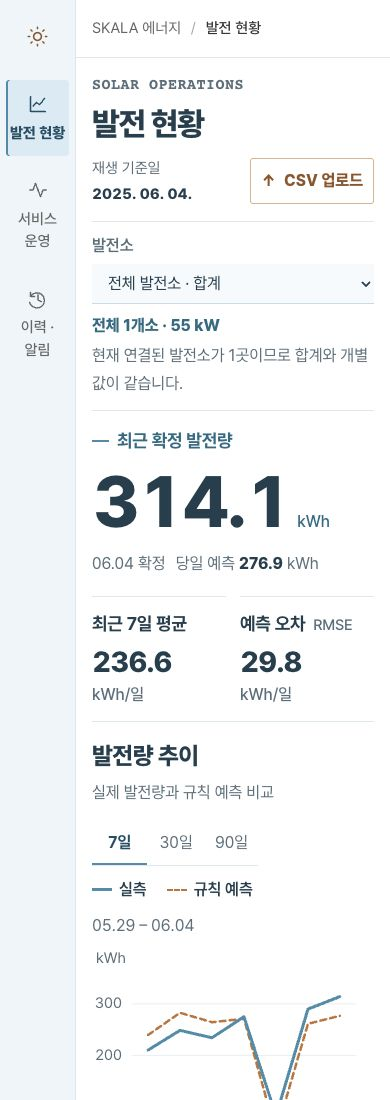
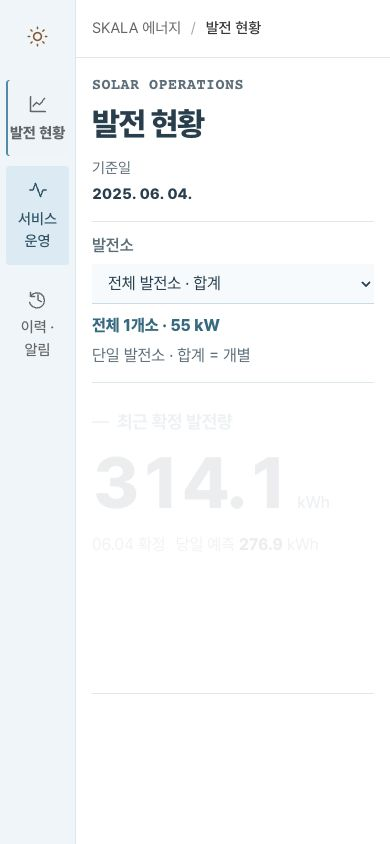
fix(frontend): recover from malformed API responses during dashboard refresh

diff --git a/docs/design/solar-ops-v01/solar-ops-preview.html b/docs/design/solar-ops-v01/solar-ops-preview.html
@@ -1729,7 +1729,7 @@ readPeriod();
       const response = await query(resource === 'timeseries' ? `timeseries?window_sec=${element('server-window').value}` : resource);
       let entries;
       if (resource === 'timeseries') {
-        if (!Array.isArray(response) || !response.every(row => Number.isFinite(row.request_count) && row.request_count >= 0 && Number.isFinite(row.avg_latency_ms) && Number.isFinite(row.error_rate))) throw new Error('응답 형식 오류');
+        if (!Array.isArray(response) || !response.every(row => row && Number.isInteger(row.request_count) && row.request_count >= 0 && Number.isFinite(row.avg_latency_ms) && row.avg_latency_ms >= 0 && Number.isFinite(row.error_rate) && row.error_rate >= 0 && row.error_rate <= 1)) throw new Error('응답 형식 오류');
         const count = response.reduce((sum, row) => sum + row.request_count, 0);
         const weighted = response.reduce((sum, row) => sum + row.avg_latency_ms * row.request_count, 0);
         const errors = response.reduce((sum, row) => sum + row.error_rate * row.request_count, 0);
@@ -1766,7 +1766,7 @@ readPeriod();
     try {
       let payload;
       try { payload = JSON.parse(element('predict-input').value); } catch { throw new Error('JSON 형식 확인 필요'); }
-      if (!Array.isArray(payload.sequence) || payload.sequence.length !== 20 || !payload.sequence.every(row => Number.isFinite(row.close) && row.close > 0 && Number.isInteger(row.volume) && row.volume >= 0)) throw new Error('입력 20개 · close > 0 · volume은 0 이상 정수');
+      if (!Array.isArray(payload?.sequence) || payload.sequence.length !== 20 || !payload.sequence.every(row => row && Number.isFinite(row.close) && row.close > 0 && Number.isInteger(row.volume) && row.volume >= 0)) throw new Error('입력 20개 · close > 0 · volume은 0 이상 정수');
       const response = await query('predict', payload);
       if (!Number.isFinite(response.predicted_close)) throw new Error('예측 응답 형식 오류');
       element('predict-status').textContent = `예측값 ${response.predicted_close} · 모델 ${display(response.model_version)}`;
@@ -1779,33 +1779,37 @@ readPeriod();
   async function refreshHistory() {
     if (historyPending) return;
     historyPending = true; element('refresh-history').disabled = true; element('history-status').textContent = '조회 중…';
-    const results = await Promise.allSettled([query('history'), query('alerts')]);
-    results.forEach((result, index) => {
-      const panel = document.querySelector(index ? '.events-panel' : '.model-panel');
-      const target = panel.querySelector(index ? '.event-list' : 'tbody');
-      target.replaceChildren();
-      const valid = result.status === 'fulfilled' && Array.isArray(result.value);
-      const rows = valid ? result.value : [];
-      panel.querySelector('.panel-heading p').textContent = valid ? '서버 조회' : '조회 불가';
-      panel.querySelector('.panel-heading > span').textContent = valid ? `${rows.length}건` : '미연결';
-      if (!rows.length) {
-        const empty = document.createElement(index ? 'li' : 'tr');
-        if (index) empty.textContent = valid ? '운영 알림 없음' : '알림 조회 불가';
-        else { const cell = document.createElement('td'); cell.colSpan = 5; cell.textContent = valid ? '등록된 모델 없음' : '모델 이력 조회 불가'; empty.append(cell); }
-        target.append(empty);
-      }
-      rows.forEach(row => {
-        const entry = document.createElement(index ? 'li' : 'tr');
-        if (index) { const content = document.createElement('div'), title = document.createElement('strong'), stamp = document.createElement('p'); title.textContent = `${display(row.level)} · ${display(row.message)}`; stamp.textContent = time(row.ts); content.append(title, stamp); entry.append(content); }
-        else [row.version, time(row.created_at), row.mode, row.rmse, row.stage].forEach(value => { const cell = document.createElement('td'); cell.textContent = display(value); entry.append(cell); });
-        target.append(entry);
+    try {
+      const results = await Promise.allSettled([query('history'), query('alerts')]);
+      let allValid = true;
+      results.forEach((result, index) => {
+        const panel = document.querySelector(index ? '.events-panel' : '.model-panel');
+        const target = panel.querySelector(index ? '.event-list' : 'tbody');
+        target.replaceChildren();
+        const valid = result.status === 'fulfilled' && Array.isArray(result.value) && result.value.every(row => row && typeof row === 'object' && !Array.isArray(row) && (index ? typeof row.message === 'string' : row.version !== undefined));
+        allValid = allValid && valid;
+        const rows = valid ? result.value : [];
+        panel.querySelector('.panel-heading p').textContent = valid ? '서버 조회' : '조회 불가';
+        panel.querySelector('.panel-heading > span').textContent = valid ? `${rows.length}건` : '미연결';
+        if (!rows.length) {
+          const empty = document.createElement(index ? 'li' : 'tr');
+          if (index) empty.textContent = valid ? '운영 알림 없음' : '알림 조회 불가';
+          else { const cell = document.createElement('td'); cell.colSpan = 5; cell.textContent = valid ? '등록된 모델 없음' : '모델 이력 조회 불가'; empty.append(cell); }
+          target.append(empty);
+        }
+        rows.forEach(row => {
+          const entry = document.createElement(index ? 'li' : 'tr');
+          if (index) { const content = document.createElement('div'), title = document.createElement('strong'), stamp = document.createElement('p'); title.textContent = `${display(row.level)} · ${display(row.message)}`; stamp.textContent = time(row.ts); content.append(title, stamp); entry.append(content); }
+          else [row.version, time(row.created_at), row.mode, row.rmse, row.stage].forEach(value => { const cell = document.createElement('td'); cell.textContent = display(value); entry.append(cell); });
+          target.append(entry);
+        });
       });
-    });
-    document.querySelector('.events-foot').textContent = `조회 시각 ${new Date().toLocaleTimeString('ko-KR')}`;
-    document.querySelector('.model-panel caption').textContent = '서버 모델 버전 이력';
-    document.querySelector('.model-panel .table-scroll').setAttribute('aria-label', '모델 버전 이력, 상하좌우 스크롤');
-    element('history-status').textContent = results.every(result => result.status === 'fulfilled') ? '조회 완료' : '일부 API 조회 불가';
-    historyPending = false; element('refresh-history').disabled = false;
+      document.querySelector('.events-foot').textContent = `조회 시각 ${new Date().toLocaleTimeString('ko-KR')}`;
+      document.querySelector('.model-panel caption').textContent = '서버 모델 버전 이력';
+      document.querySelector('.model-panel .table-scroll').setAttribute('aria-label', '모델 버전 이력, 상하좌우 스크롤');
+      element('history-status').textContent = allValid ? '조회 완료' : '일부 API 조회 불가';
+    } catch { element('history-status').textContent = '응답 처리 실패 · 다시 조회해 주세요'; }
+    finally { historyPending = false; element('refresh-history').disabled = false; }
   }
   element('refresh-history').addEventListener('click', refreshHistory);
   // Honor the existing refresh interval only while the corresponding live view is visible.

diff --git a/docs/design/solar-ops-v01/server-dashboard.js b/docs/design/solar-ops-v01/server-dashboard.js
@@ -26,7 +26,7 @@
       const response = await query(resource === 'timeseries' ? `timeseries?window_sec=${element('server-window').value}` : resource);
       let entries;
       if (resource === 'timeseries') {
-        if (!Array.isArray(response) || !response.every(row => Number.isFinite(row.request_count) && row.request_count >= 0 && Number.isFinite(row.avg_latency_ms) && Number.isFinite(row.error_rate))) throw new Error('응답 형식 오류');
+        if (!Array.isArray(response) || !response.every(row => row && Number.isInteger(row.request_count) && row.request_count >= 0 && Number.isFinite(row.avg_latency_ms) && row.avg_latency_ms >= 0 && Number.isFinite(row.error_rate) && row.error_rate >= 0 && row.error_rate <= 1)) throw new Error('응답 형식 오류');
         const count = response.reduce((sum, row) => sum + row.request_count, 0);
         const weighted = response.reduce((sum, row) => sum + row.avg_latency_ms * row.request_count, 0);
         const errors = response.reduce((sum, row) => sum + row.error_rate * row.request_count, 0);
@@ -63,7 +63,7 @@
     try {
       let payload;
       try { payload = JSON.parse(element('predict-input').value); } catch { throw new Error('JSON 형식 확인 필요'); }
-      if (!Array.isArray(payload.sequence) || payload.sequence.length !== 20 || !payload.sequence.every(row => Number.isFinite(row.close) && row.close > 0 && Number.isInteger(row.volume) && row.volume >= 0)) throw new Error('입력 20개 · close > 0 · volume은 0 이상 정수');
+      if (!Array.isArray(payload?.sequence) || payload.sequence.length !== 20 || !payload.sequence.every(row => row && Number.isFinite(row.close) && row.close > 0 && Number.isInteger(row.volume) && row.volume >= 0)) throw new Error('입력 20개 · close > 0 · volume은 0 이상 정수');
       const response = await query('predict', payload);
       if (!Number.isFinite(response.predicted_close)) throw new Error('예측 응답 형식 오류');
       element('predict-status').textContent = `예측값 ${response.predicted_close} · 모델 ${display(response.model_version)}`;
@@ -76,33 +76,37 @@
   async function refreshHistory() {
     if (historyPending) return;
     historyPending = true; element('refresh-history').disabled = true; element('history-status').textContent = '조회 중…';
-    const results = await Promise.allSettled([query('history'), query('alerts')]);
-    results.forEach((result, index) => {
-      const panel = document.querySelector(index ? '.events-panel' : '.model-panel');
-      const target = panel.querySelector(index ? '.event-list' : 'tbody');
-      target.replaceChildren();
-      const valid = result.status === 'fulfilled' && Array.isArray(result.value);
-      const rows = valid ? result.value : [];
-      panel.querySelector('.panel-heading p').textContent = valid ? '서버 조회' : '조회 불가';
-      panel.querySelector('.panel-heading > span').textContent = valid ? `${rows.length}건` : '미연결';
-      if (!rows.length) {
-        const empty = document.createElement(index ? 'li' : 'tr');
-        if (index) empty.textContent = valid ? '운영 알림 없음' : '알림 조회 불가';
-        else { const cell = document.createElement('td'); cell.colSpan = 5; cell.textContent = valid ? '등록된 모델 없음' : '모델 이력 조회 불가'; empty.append(cell); }
-        target.append(empty);
-      }
-      rows.forEach(row => {
-        const entry = document.createElement(index ? 'li' : 'tr');
-        if (index) { const content = document.createElement('div'), title = document.createElement('strong'), stamp = document.createElement('p'); title.textContent = `${display(row.level)} · ${display(row.message)}`; stamp.textContent = time(row.ts); content.append(title, stamp); entry.append(content); }
-        else [row.version, time(row.created_at), row.mode, row.rmse, row.stage].forEach(value => { const cell = document.createElement('td'); cell.textContent = display(value); entry.append(cell); });
-        target.append(entry);
+    try {
+      const results = await Promise.allSettled([query('history'), query('alerts')]);
+      let allValid = true;
+      results.forEach((result, index) => {
+        const panel = document.querySelector(index ? '.events-panel' : '.model-panel');
+        const target = panel.querySelector(index ? '.event-list' : 'tbody');
+        target.replaceChildren();
+        const valid = result.status === 'fulfilled' && Array.isArray(result.value) && result.value.every(row => row && typeof row === 'object' && !Array.isArray(row) && (index ? typeof row.message === 'string' : row.version !== undefined));
+        allValid = allValid && valid;
+        const rows = valid ? result.value : [];
+        panel.querySelector('.panel-heading p').textContent = valid ? '서버 조회' : '조회 불가';
+        panel.querySelector('.panel-heading > span').textContent = valid ? `${rows.length}건` : '미연결';
+        if (!rows.length) {
+          const empty = document.createElement(index ? 'li' : 'tr');
+          if (index) empty.textContent = valid ? '운영 알림 없음' : '알림 조회 불가';
+          else { const cell = document.createElement('td'); cell.colSpan = 5; cell.textContent = valid ? '등록된 모델 없음' : '모델 이력 조회 불가'; empty.append(cell); }
+          target.append(empty);
+        }
+        rows.forEach(row => {
+          const entry = document.createElement(index ? 'li' : 'tr');
+          if (index) { const content = document.createElement('div'), title = document.createElement('strong'), stamp = document.createElement('p'); title.textContent = `${display(row.level)} · ${display(row.message)}`; stamp.textContent = time(row.ts); content.append(title, stamp); entry.append(content); }
+          else [row.version, time(row.created_at), row.mode, row.rmse, row.stage].forEach(value => { const cell = document.createElement('td'); cell.textContent = display(value); entry.append(cell); });
+          target.append(entry);
+        });
       });
-    });
-    document.querySelector('.events-foot').textContent = `조회 시각 ${new Date().toLocaleTimeString('ko-KR')}`;
-    document.querySelector('.model-panel caption').textContent = '서버 모델 버전 이력';
-    document.querySelector('.model-panel .table-scroll').setAttribute('aria-label', '모델 버전 이력, 상하좌우 스크롤');
-    element('history-status').textContent = results.every(result => result.status === 'fulfilled') ? '조회 완료' : '일부 API 조회 불가';
-    historyPending = false; element('refresh-history').disabled = false;
+      document.querySelector('.events-foot').textContent = `조회 시각 ${new Date().toLocaleTimeString('ko-KR')}`;
+      document.querySelector('.model-panel caption').textContent = '서버 모델 버전 이력';
+      document.querySelector('.model-panel .table-scroll').setAttribute('aria-label', '모델 버전 이력, 상하좌우 스크롤');
+      element('history-status').textContent = allValid ? '조회 완료' : '일부 API 조회 불가';
+    } catch { element('history-status').textContent = '응답 처리 실패 · 다시 조회해 주세요'; }
+    finally { historyPending = false; element('refresh-history').disabled = false; }
   }
   element('refresh-history').addEventListener('click', refreshHistory);
   // Honor the existing refresh interval only while the corresponding live view is visible.

diff --git a/docs/design/solar-ops-v01/verification.md b/docs/design/solar-ops-v01/verification.md
@@ -136,3 +136,12 @@ node ../tools/design/build-preview.mjs
 - 분리 Chrome에서 3화면×5폭(320/390/768/1024/1440) 가로 넘침 없음, JS 오류 없음. 예시 항목 35개를 추가해 모델/알림 각 패널의 독립 세로 스크롤 확인. 미연결 안내, 정상/드리프트 모의 응답, 편집 JSON 오류, 단건 예측, 요청 가중 평균(18ms)/성공률(80%), 서버 이력 교체와 HTML 문자열의 안전한 텍스트 표시를 검증했다.
 - 미검증: 실제 내부 서버 API 가용성, 실데이터 업로드 저장, 모델 추론·재학습·승격. 서버 코드의 빈칸이나 미제공 경로를 UI에서 구현 완료로 주장하지 않는다. 저장본의 주식 데이터 계약은 태양광 API 계약으로 자동 변경하지 않았다.
 - 변경 파일: index.html/styles.css/app.js, operations.js/server-dashboard.js, serve-preview.mjs/operation-routes.mjs/dashboard-routes.mjs/build-preview.mjs/dashboard.test.mjs 및 생성 HTML/캡처/문서.
+
+
+## PR 자체 리뷰 (2026-10-07)
+
+- P2 수정: history/alerts가 null 항목을 반환하면 DOM 렌더링이 멈추고 새로고침 버튼이 잠기는 문제. 항목 검증과 finally 복구, 실패 상태 표시 추가. 브라우저에서 [null] → 정상 응답 재시도 성공.
+- P2 수정: null 예측/배치 본문이 502로 분류되던 문제. 입력 검증 단계에서 400으로 반환. 단건 예측 회귀 assertion 추가.
+- P2 수정: error_rate 범위를 검증하지 않아 잘못된 성공률이 나오는 문제. 0~1 범위 및 요청 수/응답시간 검증. 브라우저에서 error_rate=2 응답 거부 확인.
+- Node 테스트 15개 통과, 브라우저 예외 없음. 모바일 캡처를 최신 버튼 배치로 갱신.
+- 남은 범위: 실제 API 통합, 태양광 입력/배치 계약, 장기 재학습 실행 상태 API, 발전량 조회 API. CSS의 누적 규칙 정리는 후속 리팩터링 권장. 이번 PR은 프론트 시제품/개발 어댑터이며 운영 출시 승인이 아니다.
